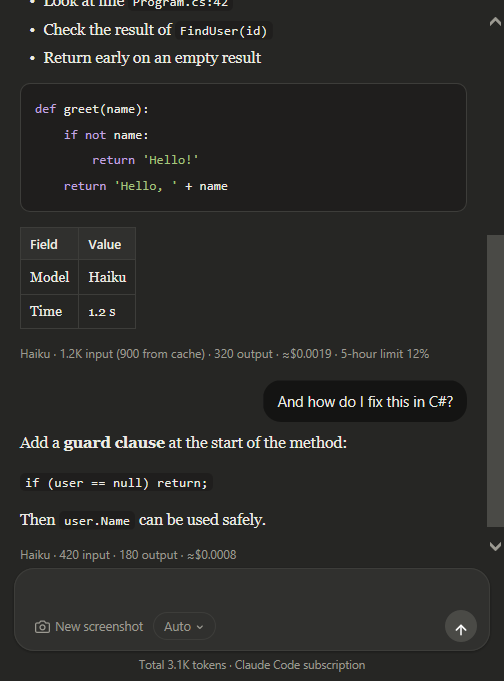
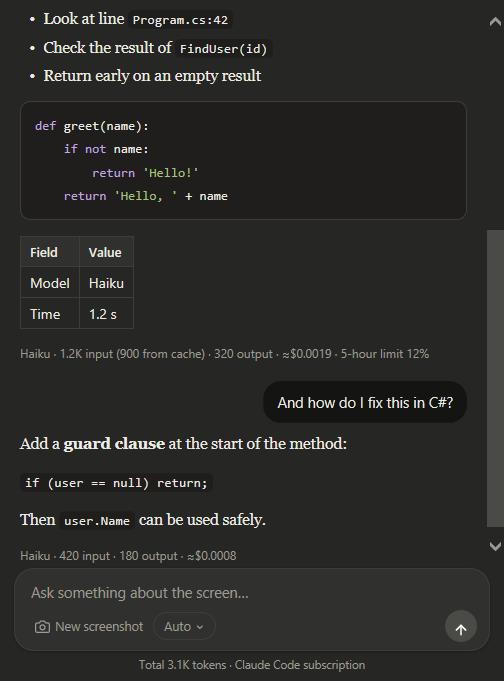
Input hint stays visible while the box is focused; tighter code blocks and sans-serif tables in answers

diff --git a/ChatForm.cs b/ChatForm.cs
@@ -490,7 +490,8 @@ scrollbar-shadow-color:#D9D7CE;scrollbar-highlight-color:#FAF9F5;scrollbar-3dlig
 .card{background:#FFFFFF;border:1px solid #E8E6DC;border-radius:20px;box-shadow:0 1px 6px rgba(0,0,0,.05);padding:10px 12px 8px}
 #ta{display:block;width:100%;border:0;outline:none;resize:none;background:transparent;color:#141413;
 font:14.5px/21px 'Segoe UI',Arial,sans-serif;padding:2px 4px;min-height:25px;max-height:168px;overflow-y:auto}
-#ta:-ms-input-placeholder{color:#9C9A92}
+#tawrap{position:relative}
+#ph{position:absolute;left:4px;top:2px;font:14.5px/21px 'Segoe UI',Arial,sans-serif;color:#9C9A92;pointer-events:none}
 #ta::-ms-clear{display:none}
 .row2{margin-top:6px;display:flex;align-items:center}
 .ghost{display:inline-block;background:none;border:0;color:#73726C;font:12.5px 'Segoe UI',Arial,sans-serif;
@@ -517,6 +518,8 @@ border:1px solid #E8E6DC;border-radius:12px;box-shadow:0 8px 24px rgba(0,0,0,.12
 .msg{word-wrap:break-word;animation:fade .18s ease-out}
 .shot{animation:fade .18s ease-out}
 @keyframes fade{from{opacity:0}to{opacity:1}}
+.ai pre,.ai pre code{line-height:1.5}
+.ai table{font:13.5px/1.45 'Segoe UI',Arial,sans-serif}
 .me{display:table;margin:8px 0 8px auto;max-width:85%;background:#F0EEE6;border-radius:18px;padding:10px 14px}
 .ai{margin:6px 0 18px;font-family:Georgia,'Times New Roman',serif;font-size:15.5px;line-height:1.65;color:#141413}
 .ai.err{font-family:'Segoe UI',Arial,sans-serif;font-size:14px;line-height:1.5;color:#B4492F}
@@ -560,7 +563,8 @@ scrollbar-shadow-color:#3D3D3A;scrollbar-highlight-color:#262624;scrollbar-3dlig
 .dark body{background:#262624;color:#ECEBE4}
 .dark #log{scrollbar-face-color:#4A4A46;scrollbar-track-color:#262624;scrollbar-arrow-color:#9C9A92;scrollbar-shadow-color:#4A4A46;scrollbar-highlight-color:#4A4A46;scrollbar-3dlight-color:#262624;scrollbar-darkshadow-color:#262624}
 .dark #ta{color:#ECEBE4}
-.dark #ta:-ms-input-placeholder{color:#9C9A92}
+.dark #tawrap{position:relative}
+#ph{position:absolute;left:4px;top:2px;font:14.5px/21px 'Segoe UI',Arial,sans-serif;color:#9C9A92;pointer-events:none}
 .dark .me{background:#141413;color:#ECEBE4}
 .dark .card{background:#30302E;border-color:#3D3D3A;box-shadow:0 1px 6px rgba(0,0,0,.35)}
 .dark .ghost{color:#9C9A92}
@@ -603,7 +607,7 @@ scrollbar-shadow-color:#3D3D3A;scrollbar-highlight-color:#262624;scrollbar-3dlig
 <div id='log'></div>
 <div id='inputarea'>
 <div class='card'>
-<textarea id='ta' rows='1' placeholder='" + App.T("Ask something about the screen…", "Ekran hakkında bir şey sor…") + @"'></textarea>
+<div id='tawrap'><div id='ph'>" + App.T("Ask something about the screen…", "Ekran hakkında bir şey sor…") + @"</div><textarea id='ta' rows='1'></textarea></div>
 <div class='row2'>
 <button id='shot' class='ghost' type='button'><svg width='15' height='15' viewBox='0 0 24 24' fill='none' stroke='currentColor' stroke-width='2' stroke-linecap='round' stroke-linejoin='round'><path d='M23 19a2 2 0 0 1-2 2H3a2 2 0 0 1-2-2V8a2 2 0 0 1 2-2h4l2-3h6l2 3h4a2 2 0 0 1 2 2z'></path><circle cx='12' cy='13' r='4'></circle></svg>" + App.T("New screenshot", "Yeni görüntü") + @"</button>
 <div id='modelwrap'>
@@ -659,6 +663,7 @@ scrollbar-shadow-color:#3D3D3A;scrollbar-highlight-color:#262624;scrollbar-3dlig
   function updateSend() {
     var empty = /^\s*$/.test(ta.value);
     send.disabled = isBusy || empty;
+    document.getElementById('ph').style.display = ta.value.length ? 'none' : 'block';
   }
   function clearLog() { log.innerHTML = ''; }
   function addUser(t) {
